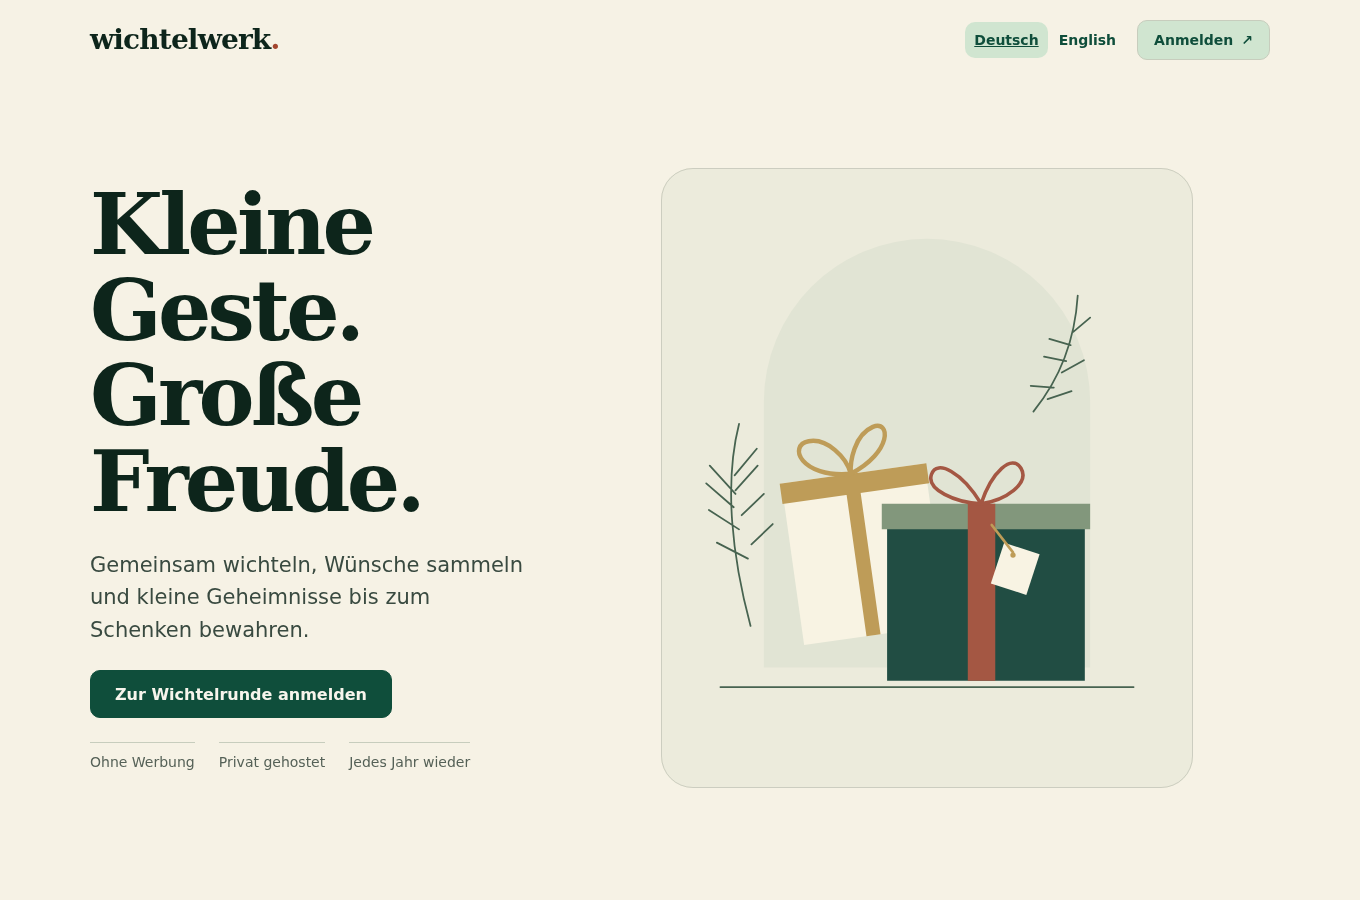
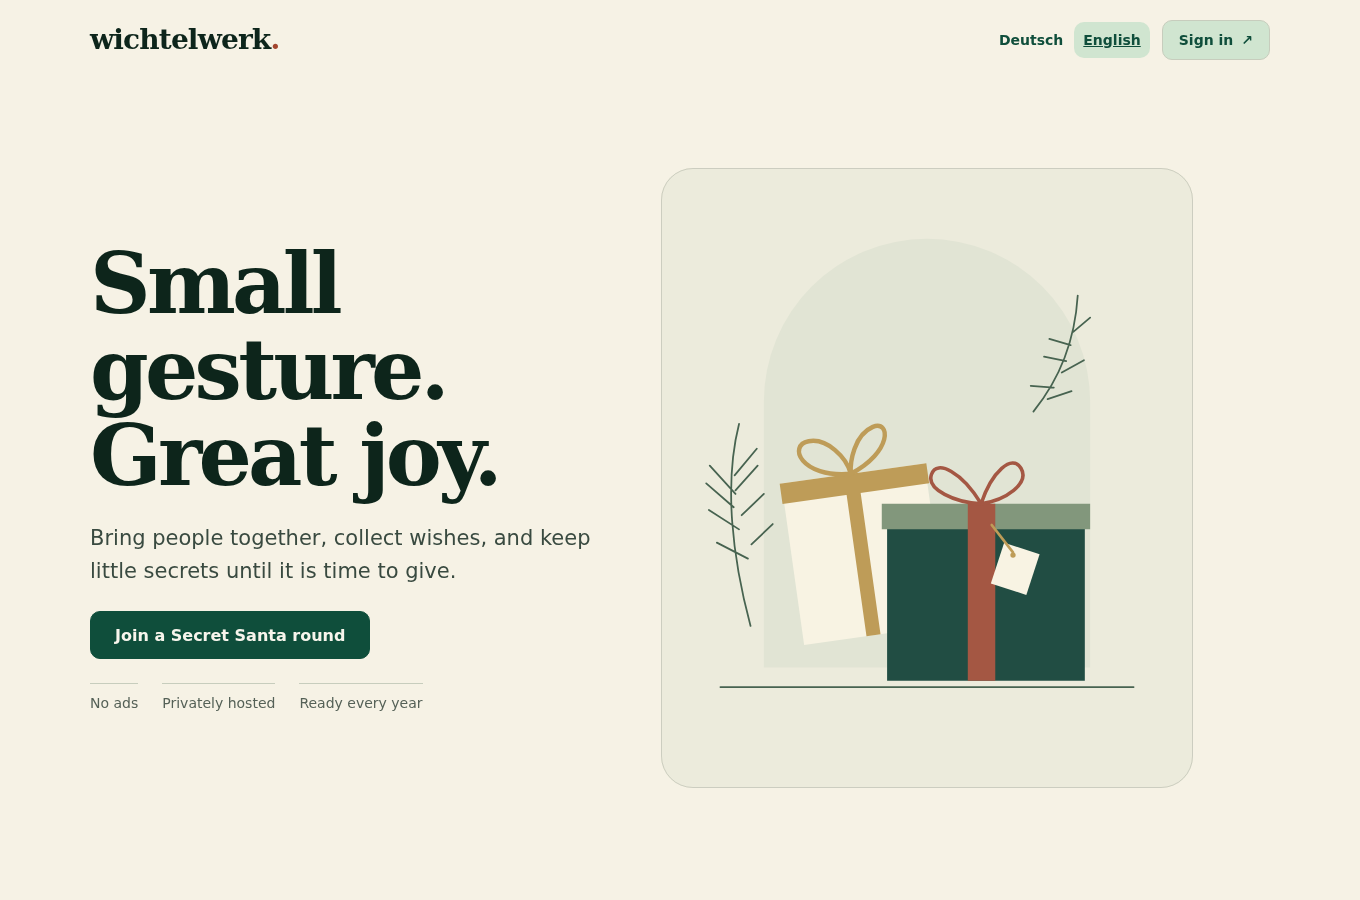
ci: publish container image and refresh English screenshots

Changed region(s): [[0.0618, 0.1867, 0.4324, 0.8089], [0.7103, 0.0, 0.8956, 0.0622], [0.0618, 0.84, 0.3397, 0.8711]]

diff --git a/scripts/capture_screenshots.py b/scripts/capture_screenshots.py
@@ -45,15 +45,15 @@ def main():
 
         owner = sign_in('alex@example.invalid')
         day = (date.today()+timedelta(days=40)).isoformat()
-        event = post(owner, '/events', {'title':'Wichteln im Freundeskreis', 'date':day,
-                     'budget':'25 €', 'invitation':'Ein schöner Abend, ein kleines Geschenk und Zeit füreinander.'})['id']
+        event = post(owner, '/events', {'title':'Secret Santa with friends', 'date':day,
+                     'budget':'€25', 'invitation':'A cozy evening, a little gift, and time together.'})['id']
         base = '/events/'+event
         post(owner, base+'/join', {'name':'Alex'})
-        post(owner, base+'/wishes', {'wishes':'Ein gutes Buch oder etwas für den Garten. Ich mag natürliche Materialien.'})
+        post(owner, base+'/wishes', {'wishes':'A good book or something for the garden. I love natural materials.'})
         people = [
-            ('Lina', 'lina@example.invalid', 'Ein Notizbuch, Kräutertee oder ein kleines Puzzle. Meine Lieblingsfarbe ist Grün.'),
-            ('Jonas', 'jonas@example.invalid', 'Kaffee, ein spannender Krimi oder eine Kleinigkeit für meine Küche.'),
-            ('Mara', 'mara@example.invalid', 'Etwas zum Zeichnen, ein schönes Lesezeichen oder eine kleine Pflanze.'),
+            ('Lina', 'lina@example.invalid', 'A notebook, herbal tea, or a little puzzle. My favorite color is green.'),
+            ('Jonas', 'jonas@example.invalid', 'Coffee, a gripping mystery novel, or something for my kitchen.'),
+            ('Mara', 'mara@example.invalid', 'Drawing supplies, a lovely bookmark, or a small plant.'),
         ]
         guests = []
         for name, email, wishes in people:
@@ -62,7 +62,7 @@ def main():
             post(client, base+'/respond', {'status':'accepted'})
             post(client, base+'/wishes', {'wishes':wishes})
             guests.append(client)
-        post(owner, '/events', {'title':'Wichteln im Team', 'date':day, 'budget':'15 €'})
+        post(owner, '/events', {'title':'Team Secret Santa', 'date':day, 'budget':'€15'})
         post(owner, base+'/draw', {'confirmed':True})
 
         server = make_server('127.0.0.1', 0, app, threaded=True)
@@ -75,7 +75,7 @@ def main():
             with sync_playwright() as p:
                 browser = p.chromium.launch(executable_path=os.environ.get('CHROME_PATH', p.chromium.executable_path))
                 try:
-                    def page_for(client=None, locale='de-DE'):
+                    def page_for(client=None, locale='en-US'):
                         context = browser.new_context(viewport={'width':1360,'height':900},
                                   locale=locale, timezone_id='Europe/Berlin', reduced_motion='reduce',
                                   device_scale_factor=1, color_scheme='light')
@@ -89,26 +89,24 @@ def main():
 
                     def capture(page, name, full_page=False):
                         page.evaluate('document.fonts.ready')
+                        assert page.locator('html').get_attribute('lang') == 'en', name
                         assert page.evaluate('document.documentElement.scrollWidth <= innerWidth'), name
                         assert page.evaluate('document.body.scrollWidth <= innerWidth'), name
                         page.screenshot(path=str(output/name), full_page=full_page)
 
                     home = page_for()
                     home.goto(url)
-                    expect(home.get_by_role('heading', name='Kleine Geste. Große Freude.')).to_be_visible()
+                    expect(home.get_by_role('heading', name='Small gesture. Great joy.')).to_be_visible()
                     home.wait_for_function('document.querySelector(".hero-photo img")?.naturalWidth > 0')
                     capture(home, 'home-desktop.png')
-                    english = page_for(locale='en-US')
-                    english.goto(url)
-                    expect(english.get_by_role('heading', name='Small gesture. Great joy.')).to_be_visible()
-                    english.wait_for_function('document.querySelector(".hero-photo img")?.naturalWidth > 0')
-                    capture(english, 'home-english.png')
                     dashboard = page_for(owner)
                     dashboard.goto(url+'/#dashboard')
+                    expect(dashboard.get_by_role('heading', name='My Secret Santa rounds')).to_be_visible()
                     expect(dashboard.locator('.event-card')).to_have_count(2)
                     capture(dashboard, 'dashboard.png')
                     recipient = page_for(guests[0])
                     recipient.goto(url+'/#event='+event)
+                    expect(recipient.get_by_role('heading', name='You are giving to …')).to_be_visible()
                     expect(recipient.locator('.recipient-name')).to_be_visible()
                     expect(recipient.locator('.recipient-wishes')).to_be_visible()
                     capture(recipient, 'recipient.png', full_page=True)
@@ -121,7 +119,7 @@ def main():
         finally:
             server.shutdown()
             thread.join(timeout=5)
-        expected = {'home-desktop.png','home-english.png','dashboard.png','recipient.png','mobile.png'}
+        expected = {'home-desktop.png','dashboard.png','recipient.png','mobile.png'}
         assert {p.name for p in output.glob('*.png')} == expected
         for name in sorted(expected):
             target = output/name

diff --git a/test_documentation.py b/test_documentation.py
@@ -24,6 +24,17 @@ def test_readme_links_local_hero_and_screenshot_files():
     assert 'synthetic' in readme.lower()
 
 
+def test_published_image_is_documented_and_repository_linked():
+    readme = (ROOT/'README.md').read_text()
+    compose = (ROOT/'compose.yaml').read_text()
+    workflow = (ROOT/'.github/workflows/ci.yml').read_text()
+    assert 'ghcr.io/tofferlicious/wichtelwerk:edge' in readme
+    assert 'ghcr.io/tofferlicious/wichtelwerk:edge' in compose
+    assert 'packages: write' in workflow
+    assert 'org.opencontainers.image.source' in workflow
+    assert 'sha-${GITHUB_SHA}' in workflow
+
+
 def test_privacy_text_matches_portable_docker_distribution():
     catalog = (ROOT/'static/i18n.js').read_text()
     texts = re.findall(r"'privacy.email.text': '([^']+)'", catalog)

diff --git a/README.md b/README.md
@@ -23,18 +23,12 @@ GitHub Actions runs the Python and Chromium browser tests, lifecycle checks, Jav
 
 ## Screenshots
 
-Real application screens, captured locally with **synthetic demo data**. No production accounts, wishlists or assignments are shown.
+Real application screens in **English**, captured locally with **synthetic demo data**. No production accounts, wishlists or assignments are shown. The application also supports German.
 
 ### Welcome
 
 ![Wichtelwerk desktop welcome page with the gift illustration](docs/screenshots/home-desktop.png)
 
-<details>
-<summary>English interface (automatically detected from the browser)</summary>
-
-![Wichtelwerk English welcome page and language selector](docs/screenshots/home-english.png)
-
-</details>
 
 ### Your rounds
 
@@ -86,16 +80,33 @@ Round titles, invitation messages, names, wishes and addresses are **never autom
 
 ## Docker Compose quick start
 
-Requires Docker Engine and Docker Compose v2. The image is built locally from this repository; no registry login is required.
+Requires Docker Engine and Docker Compose v2. Wichtelwerk is self-hosted software, not a shared hosted service. The GitHub Pages site is a read-only visual demo.
+
+The current preview lives on `feat/english-docker`; the commands below check out that branch. `main` has not been updated yet.
 
 ```sh
-git clone https://github.com/tofferlicious/wichtelwerk.git
+git clone --branch feat/english-docker https://github.com/tofferlicious/wichtelwerk.git
 cd wichtelwerk
 cp .env.example .env
 # Edit .env: public BASE_URL, MAIL_FROM, SMTP settings and EVENT_CREATOR_EMAILS.
 docker compose up -d --build
 docker compose ps
 ```
+
+### Prebuilt container image
+
+CI publishes **`ghcr.io/tofferlicious/wichtelwerk:edge`** after successful tests. `edge` is a rolling development preview, not a versioned stable release. Images currently target **Linux/amd64 (x86-64)**. Each build also receives a `sha-<full-commit-SHA>` tag; pin a digest for a reproducible installation.
+
+To use the prebuilt image with the same Compose file instead of building locally:
+
+```sh
+docker compose pull
+docker compose up -d --no-build
+```
+
+For subsequent image updates, repeat those two commands; they preserve the named database volume. Alternatively, `docker compose up -d --build` still builds your checked-out source locally. For a reproducible image, replace the Compose `image:` value with `ghcr.io/tofferlicious/wichtelwerk@sha256:<digest>` before starting with `--no-build`.
+
+Maintainer note: GitHub initially creates new container packages as private. Set the package visibility to **Public** once before recommending anonymous pulls. Publishing uses the repository's short-lived Actions token; no personal registry token or `.env` is included in the build.
 
 The web service listens on **127.0.0.1:8765** on the Docker host. Put your HTTPS reverse proxy in front of it, set `BASE_URL` to that exact public origin, and keep `COOKIE_SECURE=true`. A proxy running in another container needs a shared Docker network or an explicitly configured host binding; `localhost` inside that proxy is not the Docker host.
 
@@ -136,7 +147,7 @@ Put credentials only in your private `.env` or process environment. Compose load
 Requires Python 3.11+ and a Unix-like server. Use either a reachable SMTP server (`MAIL_MODE=smtp`, settings above) or an existing `/usr/sbin/sendmail` interface (`MAIL_MODE=sendmail`).
 
 ```sh
-git clone https://github.com/tofferlicious/wichtelwerk.git
+git clone --branch feat/english-docker https://github.com/tofferlicious/wichtelwerk.git
 cd wichtelwerk
 python3 -m venv .venv
 .venv/bin/python -m pip install -r requirements.txt
